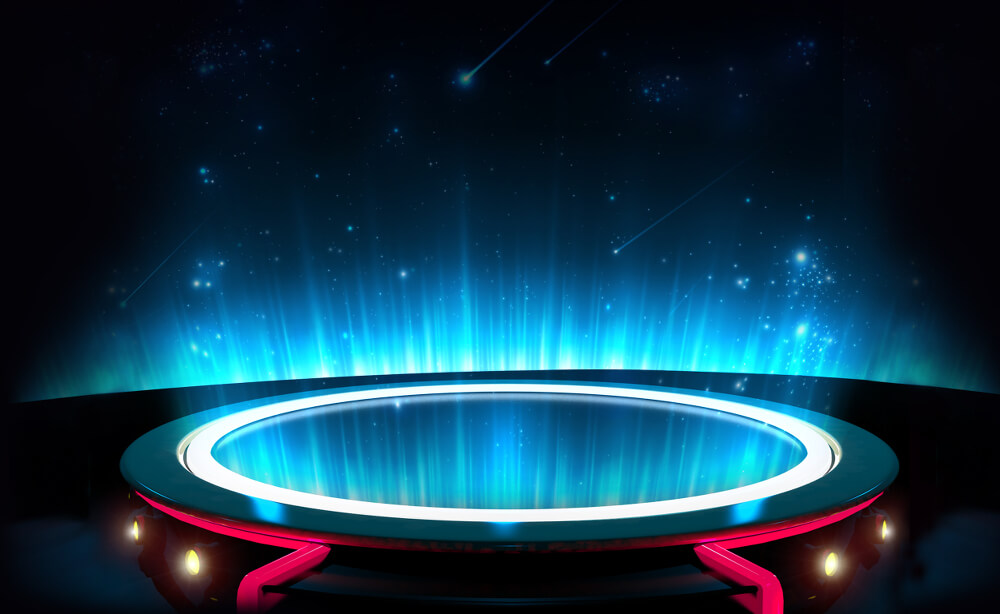
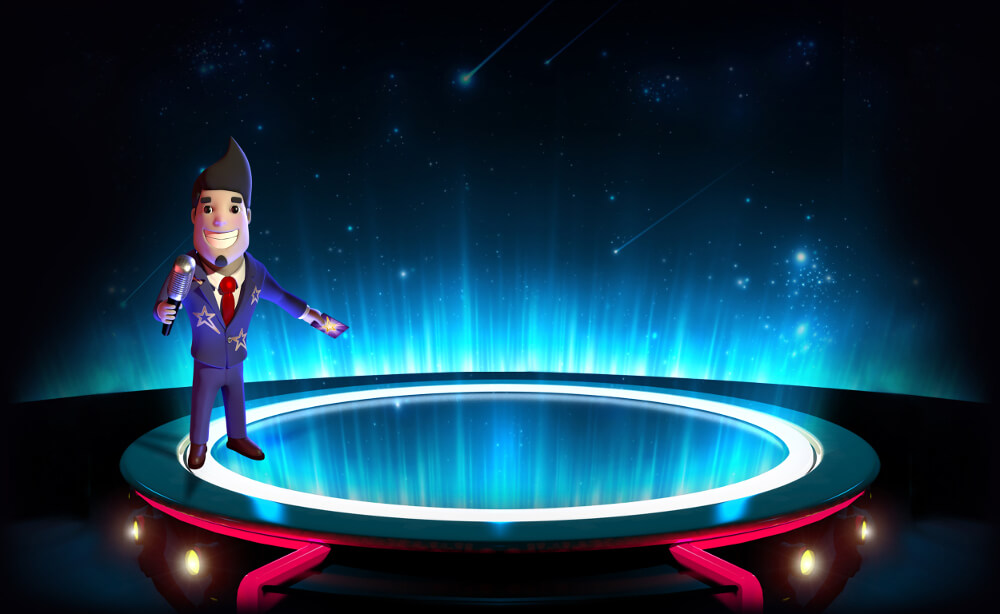
Update 2015-06-25T14:14:52.387Z

diff --git a/index.html b/index.html
@@ -72,9 +72,8 @@
 
 <div class="hero" id="home">
 
-  <!-- Hero image -->
   <div class="hero__img col-sm-5 hidden-xs">
-    <img src="img/pat.png" class="img-responsive" alt="Pat">
+    <!-- Placeholder for pat -->
   </div>
 
   <div class="container">
